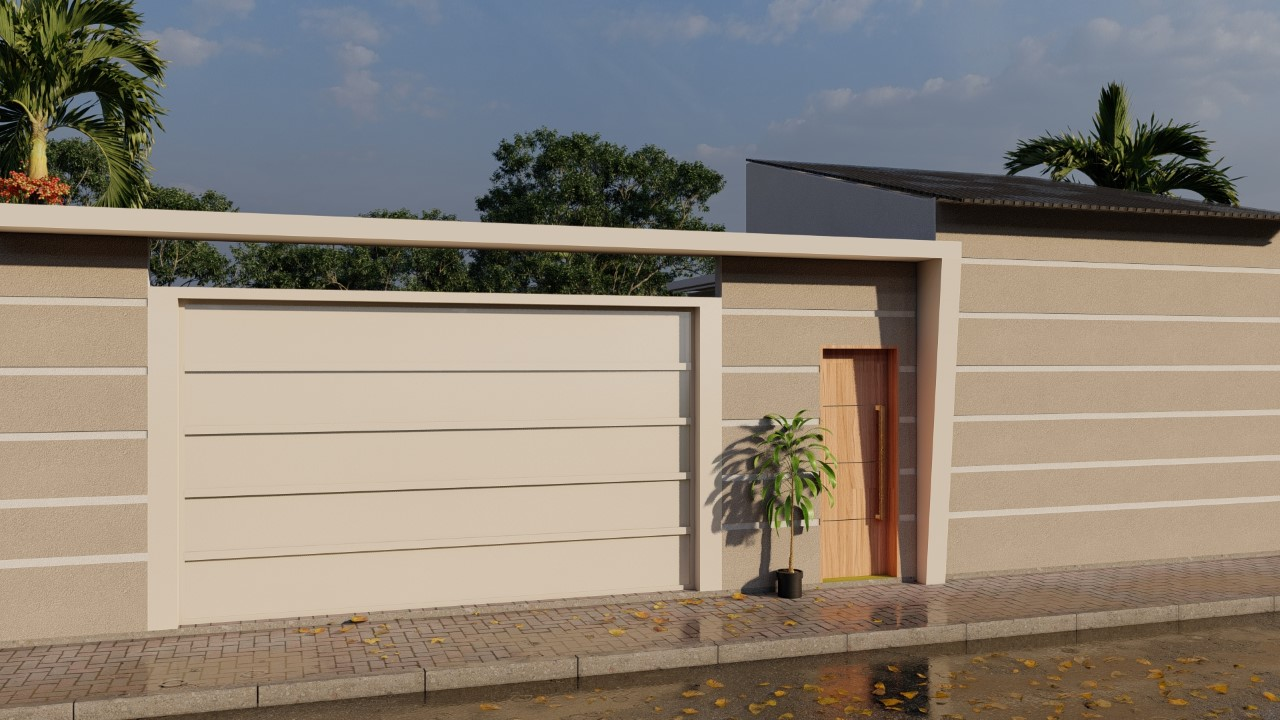
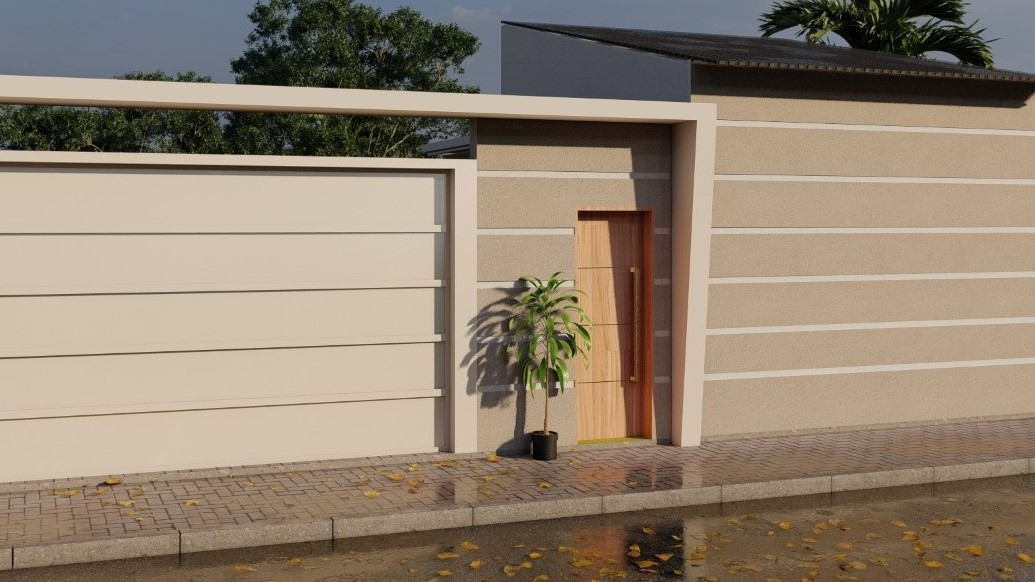
Compact home_panel images

diff --git a/src/components/home_panel/index.jsx b/src/components/home_panel/index.jsx
@@ -5,8 +5,7 @@ import logo_img from "../../assets/logo.png";
 import styled from "styled-components";
 import img0 from "./images/0.jpg";
 import img1 from "./images/1.png";
-import img2 from "./images/2_novo.jpg";
-// import img2 from "./images/2.jpg";
+import img2 from "./images/2.jpg";
 
 const HomePanel = ({ painel }) => {
     const Image0 = styled.div`
